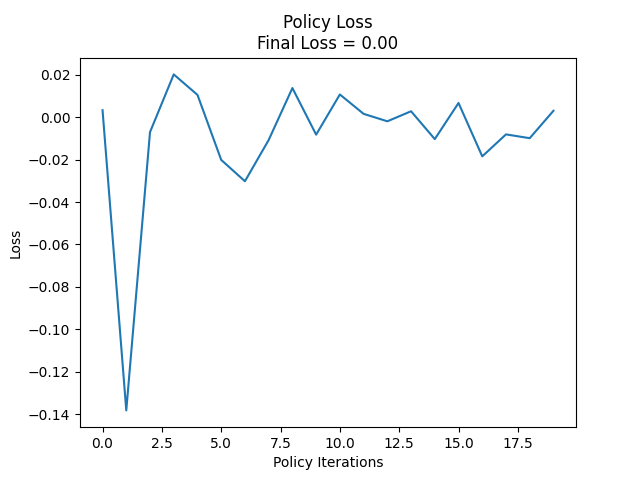
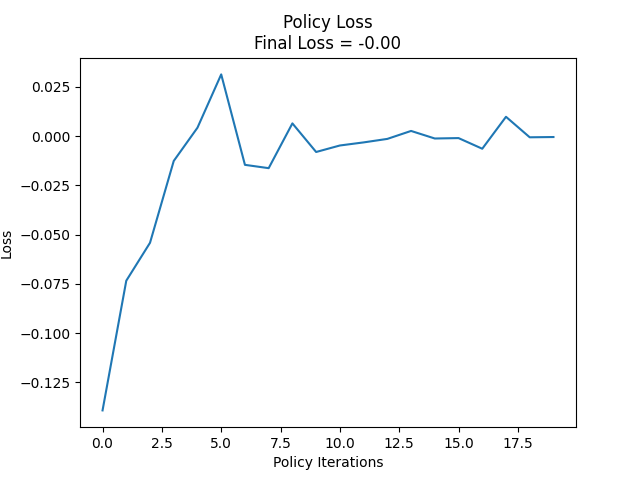
implement sparse matrix

diff --git a/Utils/train.py b/Utils/train.py
@@ -123,9 +123,11 @@ class PPO_Solver(Solver):
 #        payoff = self.payoff_map[ts, action_id]
         offset = self.get_offset(day_num) * self.time_horizon
         if len(curr_state_counts.shape) > 1:
-            curr, next = curr_state_counts[:,:self.value_input_dim], next_state_counts[:,:self.value_input_dim]
+#            curr, next = curr_state_counts[:,:self.value_input_dim], next_state_counts[:,:self.value_input_dim]
+            curr, next = curr_state_counts, next_state_counts
         else:
-            curr, next = curr_state_counts[:self.value_input_dim], next_state_counts[:self.value_input_dim]
+#            curr, next = curr_state_counts[:self.value_input_dim], next_state_counts[:self.value_input_dim]
+            curr, next = curr_state_counts, next_state_counts
         with torch.no_grad():
             curr_value = self.value_model((ts + offset, curr)).reshape((-1,))
         mu, sd = self.value_scale[ts + offset]
@@ -232,7 +234,7 @@ class PPO_Solver(Solver):
                 lens = len(curr_state_counts)
                 if day_num < self.useful_days:
                     value_dct[t + offset]["payoff"].append(payoff)
-                    value_dct[t + offset]["state_counts"].append(curr_state_counts.reshape((1, lens)))
+                    value_dct[t + offset]["state_counts"].append(curr_state_counts[0])
                     val_num += 1
         for t in range(self.time_horizon * self.network_horizon_repeat):
             payoff_lst = torch.tensor(value_dct[t]["payoff"]).to(device = self.device)
@@ -242,7 +244,8 @@ class PPO_Solver(Solver):
             mu, sd = self.value_scale[t]
             payoff_lst = (payoff_lst - mu) / sd
             if len(value_dct[t]["state_counts"]) > 0:
-                state_counts_lst = torch.cat(value_dct[t]["state_counts"], dim = 0)[:,:self.value_input_dim]
+#                state_counts_lst = torch.cat(value_dct[t]["state_counts"], dim = 0)[:,:self.value_input_dim]
+                state_counts_lst = torch.vstack(value_dct[t]["state_counts"])
                 value_model_output = self.value_model((t, state_counts_lst)).reshape((-1,))
                 total_value_loss += torch.sum((value_model_output - payoff_lst) ** 2) / val_num #/ self.num_cars / self.time_horizon
 #        total_value_loss /= val_num #self.num_episodes
@@ -367,7 +370,7 @@ class PPO_Solver(Solver):
                         for t in range(self.time_horizon):
                             for offset in [0, 1]:
                                 tup = (t, t + offset, day_num)
-                                policy_dct[tup] = {"curr_state_counts": [], "next_state_counts": [], "action_id": [], "atomic_payoff": []}
+                                policy_dct[tup] = {"curr_state_counts_value": [], "next_state_counts_value": [], "curr_state_counts_policy": [], "action_id": [], "atomic_payoff": []}
                     batch_idx = np.random.choice(self.num_episodes, size = self.policy_batch, replace = False)
                     total_policy_loss = 0
                     self.policy_optimizer.zero_grad(set_to_none=True)
@@ -383,8 +386,9 @@ class PPO_Solver(Solver):
 #                            if day_num >= self.useful_days:
 #                                break
                             lens = len(curr_state_counts)
-                            policy_dct[(t, next_t, offset)]["curr_state_counts"].append(curr_state_counts.reshape((1, lens)))
-                            policy_dct[(t, next_t, offset)]["next_state_counts"].append(next_state_counts.reshape((1, lens)))
+                            policy_dct[(t, next_t, offset)]["curr_state_counts_value"].append(curr_state_counts[0])
+                            policy_dct[(t, next_t, offset)]["next_state_counts_value"].append(next_state_counts[0])
+                            policy_dct[(t, next_t, offset)]["curr_state_counts_policy"].append(curr_state_counts[1])
                             policy_dct[(t, next_t, offset)]["action_id"].append(action_id)
                             policy_dct[(t, next_t, offset)]["atomic_payoff"].append(atomic_payoff)
     #                        advantage = self.get_advantage(curr_state_counts, next_state_counts, action_id, t, next_t)
@@ -395,16 +399,17 @@ class PPO_Solver(Solver):
                         for t in range(self.time_horizon):
                             for offset in [0, 1]:
                                 next_t = t + offset
-                                if len(policy_dct[(t, next_t, day_num)]["curr_state_counts"]) > 0:
-                                    curr_state_counts_lst = torch.cat(policy_dct[(t, next_t, day_num)]["curr_state_counts"], dim = 0)
-                                    next_state_counts_lst = torch.cat(policy_dct[(t, next_t, day_num)]["next_state_counts"], dim = 0)
+                                if len(policy_dct[(t, next_t, day_num)]["curr_state_counts_policy"]) > 0:
+                                    curr_state_counts_lst_value = torch.vstack(policy_dct[(t, next_t, day_num)]["curr_state_counts_value"])
+                                    next_state_counts_lst_value = torch.vstack(policy_dct[(t, next_t, day_num)]["next_state_counts_value"])
+                                    curr_state_counts_lst_policy = torch.vstack(policy_dct[(t, next_t, day_num)]["curr_state_counts_policy"])
                                     action_id_lst = torch.tensor(policy_dct[(t, next_t, day_num)]["action_id"]).to(device = self.device)
                                     atomic_payoff_lst = torch.tensor(policy_dct[(t, next_t, day_num)]["atomic_payoff"]).to(device = self.device)
-                                    advantage = self.get_advantage(curr_state_counts_lst, next_state_counts_lst, action_id_lst, t, next_t, atomic_payoff_lst, day_num = day_num)
+                                    advantage = self.get_advantage(curr_state_counts_lst_value, next_state_counts_lst_value, action_id_lst, t, next_t, atomic_payoff_lst, day_num = day_num)
 #                                    advantage_tails = torch.quantile(advantage, torch.tensor([0.025, 0.975]))
 #                                    advantage = torch.max(torch.min(advantage, advantage_tails[1]), advantage_tails[0])
                                     ## TODO: Fix it!!!
-                                    ratio, ratio_clipped = self.get_ratio(curr_state_counts_lst, action_id_lst, t, clipped = True, eps = eps, day_num = day_num)
+                                    ratio, ratio_clipped = self.get_ratio(curr_state_counts_lst_policy, action_id_lst, t, clipped = True, eps = eps, day_num = day_num)
                                     loss_curr = -torch.min(ratio * advantage, ratio_clipped * advantage)
                                     total_policy_loss += torch.sum(loss_curr) / len(batch_idx)
     #                total_policy_loss /= len(batch_idx)
@@ -578,10 +583,10 @@ class PPO_Solver(Solver):
             transit_applied = False
             for car_idx in tqdm(range(num_available_cars), leave = False):
                 ## Perform state transitions
-                curr_state_counts = markov_decision_process.get_state_counts(state_reduction = self.state_reduction, car_id = available_car_ids[car_idx]).to(device = self.device)
+                curr_state_counts = markov_decision_process.get_state_counts(state_reduction = self.state_reduction, car_id = available_car_ids[car_idx])#.to(device = self.device)
 #                if return_action:
                 curr_state_counts_full = markov_decision_process.get_state_counts(deliver = True)
-                action_id_prob = self.policy_predict(curr_state_counts, t, prob = True, use_benchmark = True, lazy_removal = lazy_removal, car_id = available_car_ids[car_idx], state_count_check = curr_state_counts_full, day_num = day_num)
+                action_id_prob = self.policy_predict(curr_state_counts[1], t, prob = True, use_benchmark = True, lazy_removal = lazy_removal, car_id = available_car_ids[car_idx], state_count_check = curr_state_counts_full, day_num = day_num)
                 if action_id_prob is not None:
                     action_id_prob = action_id_prob.cpu().detach().numpy()
                     if debug:
@@ -597,7 +602,7 @@ class PPO_Solver(Solver):
                         is_feasible = False
                         while not is_feasible:
                             action_id = np.random.choice(len(action_id_prob), p = action_id_prob)
-                            is_feasible = self.action_is_feasible(curr_state_counts, t, int(action_id), car_id = available_car_ids[car_idx], state_count_check = curr_state_counts_full)
+                            is_feasible = self.action_is_feasible(curr_state_counts[1], t, int(action_id), car_id = available_car_ids[car_idx], state_count_check = curr_state_counts_full)
                             if not is_feasible:
                                 print(self.all_actions[action_id].describe(), action_id)
                                 print(self.all_actions[action_id].get_type())
@@ -621,7 +626,7 @@ class PPO_Solver(Solver):
                         markov_decision_process.transit_across_timestamp()
                         next_t += 1
                     if t == self.time_horizon - 1 and car_idx == num_available_cars - 1:
-                        next_state_counts = markov_decision_process.get_state_counts(state_reduction = self.state_reduction, car_id = available_car_ids[car_idx]).to(device = self.device)
+                        next_state_counts = markov_decision_process.get_state_counts(state_reduction = self.state_reduction, car_id = available_car_ids[car_idx])#.to(device = self.device)
                     else:
                         next_state_counts = None
                     payoff = markov_decision_process.get_payoff_curr_ts().clone()

diff --git a/Utils/mdp.py b/Utils/mdp.py
@@ -651,12 +651,13 @@ class MarkovDecisionProcess:
             return self.state_counts.clone()
         if not state_reduction:
             ret = torch.cat([self.state_counts[:self.full_car_state_range[0]], self.car_train_state_counts, self.state_counts[self.full_car_state_range[1]:]])
-            return ret.clone()
+            return (ret.to_sparse(), ret.to_sparse()) #ret.clone()
         assert car_id is not None
         reduced_state_counts = self.reduced_state_counts.clone()
         car = self.state_dict[car_id]
         local_state_counts = self.get_local_state(car)
-        return torch.cat([reduced_state_counts, local_state_counts])
+        ret = torch.cat([reduced_state_counts, local_state_counts])
+        return (reduced_state_counts.to_sparse(), ret.to_sparse())
     
     ## Get the status of an unassigned car
     def get_car_info(self, car_id):
